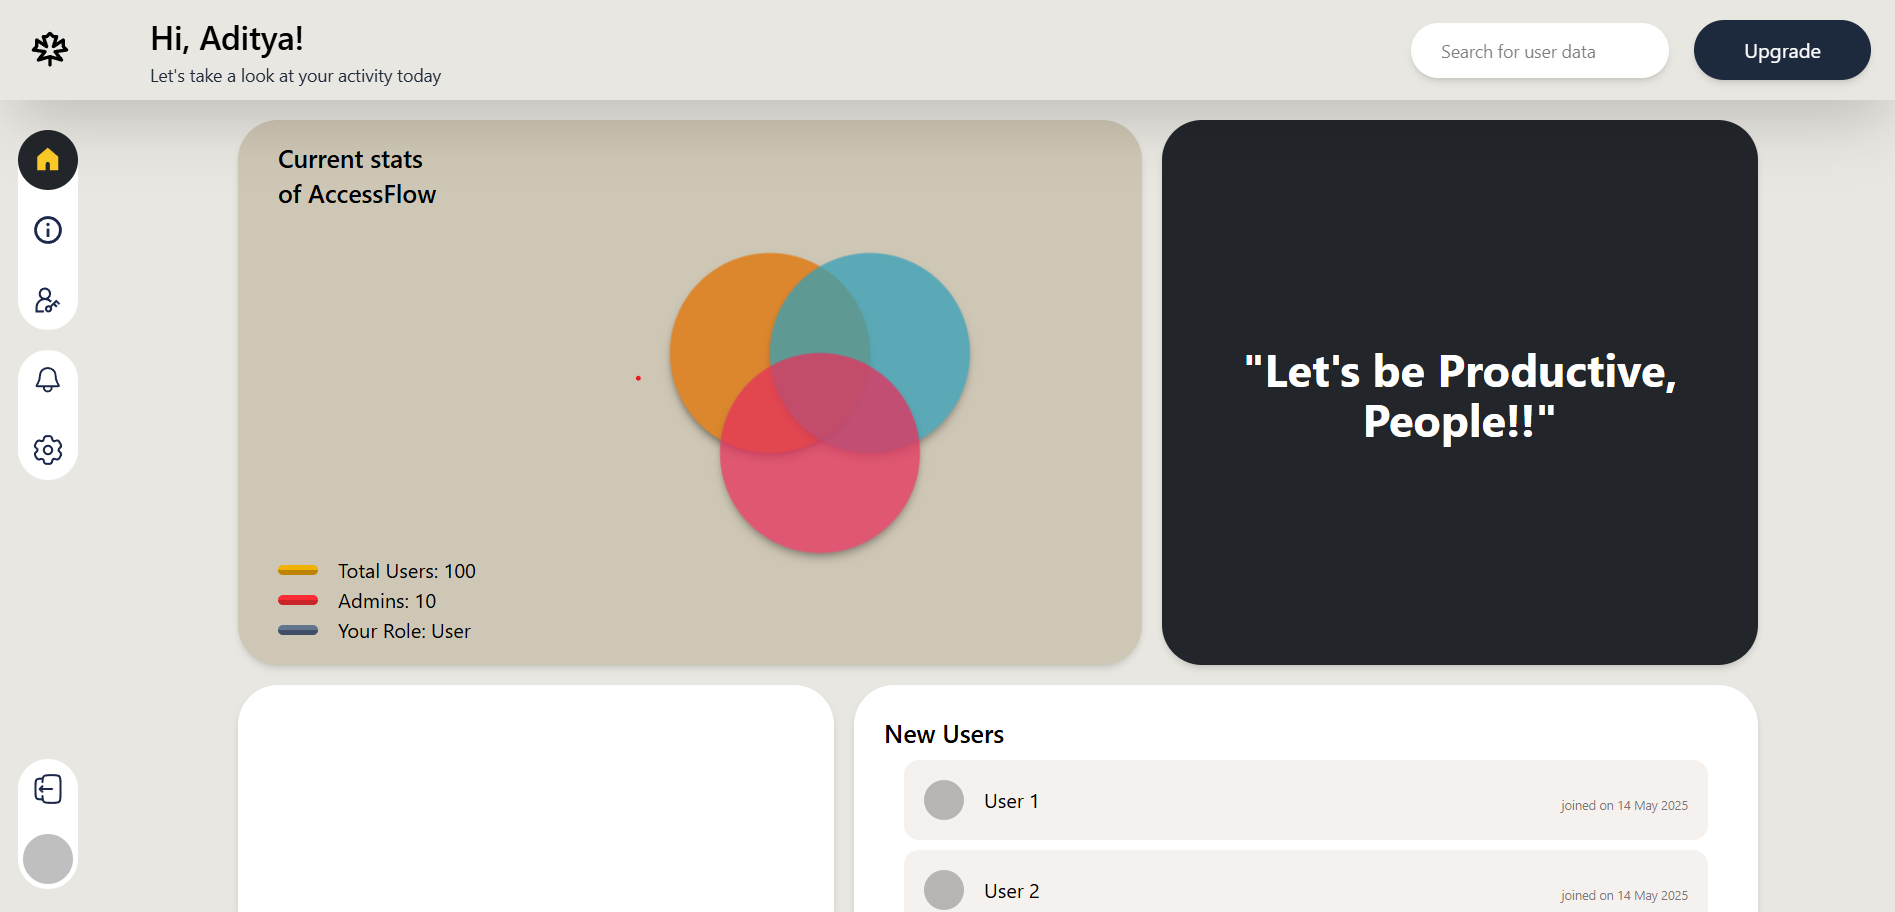
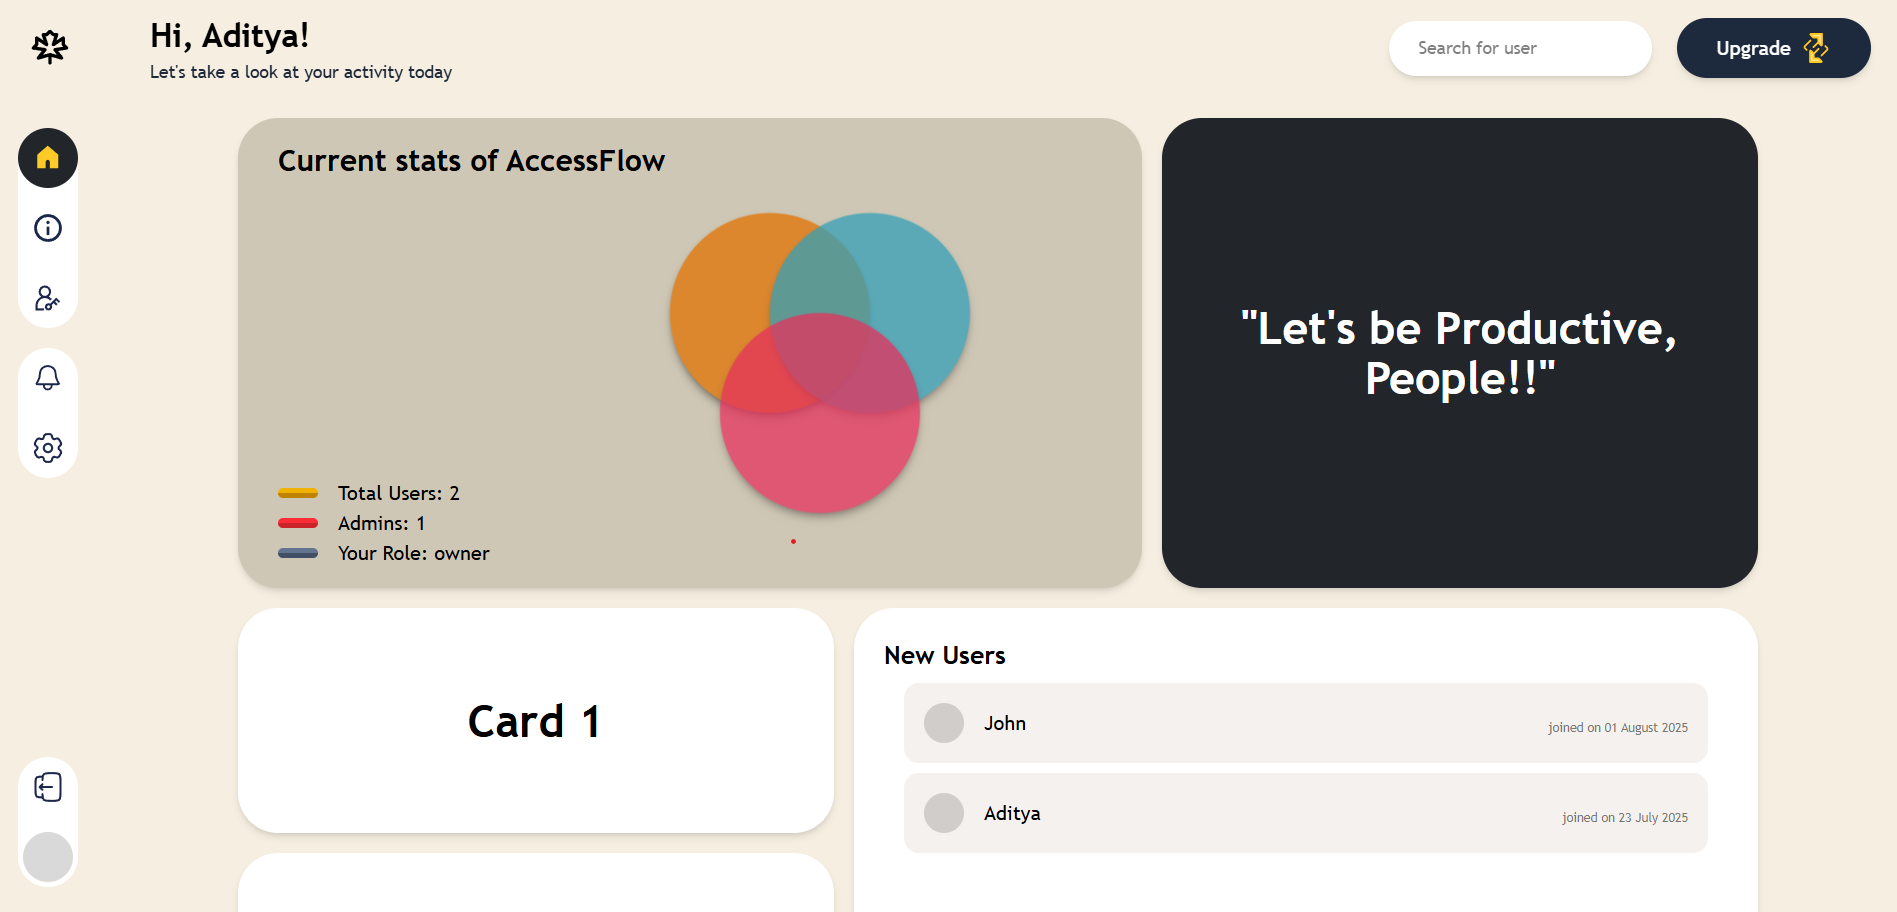
Replaced screenshots of Dashboard Home with Admin Panel and Info Page in Landing Page

diff --git a/src/pages/Home.jsx b/src/pages/Home.jsx
@@ -2,6 +2,8 @@ import Button from "../components/Button";
 import { useNavigate } from "react-router-dom";
 import AccessFlow from "../assets/AccessFlow.png";
 import Login from "../assets/Login.png";
+import AdminPanel from "../assets/AdminPanel.png";
+import InfoPage from "../assets/InfoPage.png";
 import { useRef } from "react";
 
 export default function Home() {
@@ -183,7 +185,7 @@ export default function Home() {
           <div className="flex items-center gap-16 py-4 mt-8 select-none max-[950px]:flex-col max-[950px]:gap-8">
             <div>
               <img
-                src={AccessFlow}
+                src={AdminPanel}
                 alt="AccessFlow"
                 className="shadow-xl shadow-white/15 rounded-2xl"
                 draggable={false}
@@ -194,7 +196,7 @@ export default function Home() {
             </div>
             <div>
               <img
-                src={AccessFlow}
+                src={InfoPage}
                 alt="AccessFlow"
                 className="shadow-xl shadow-white/15 rounded-2xl"
                 draggable={false}
